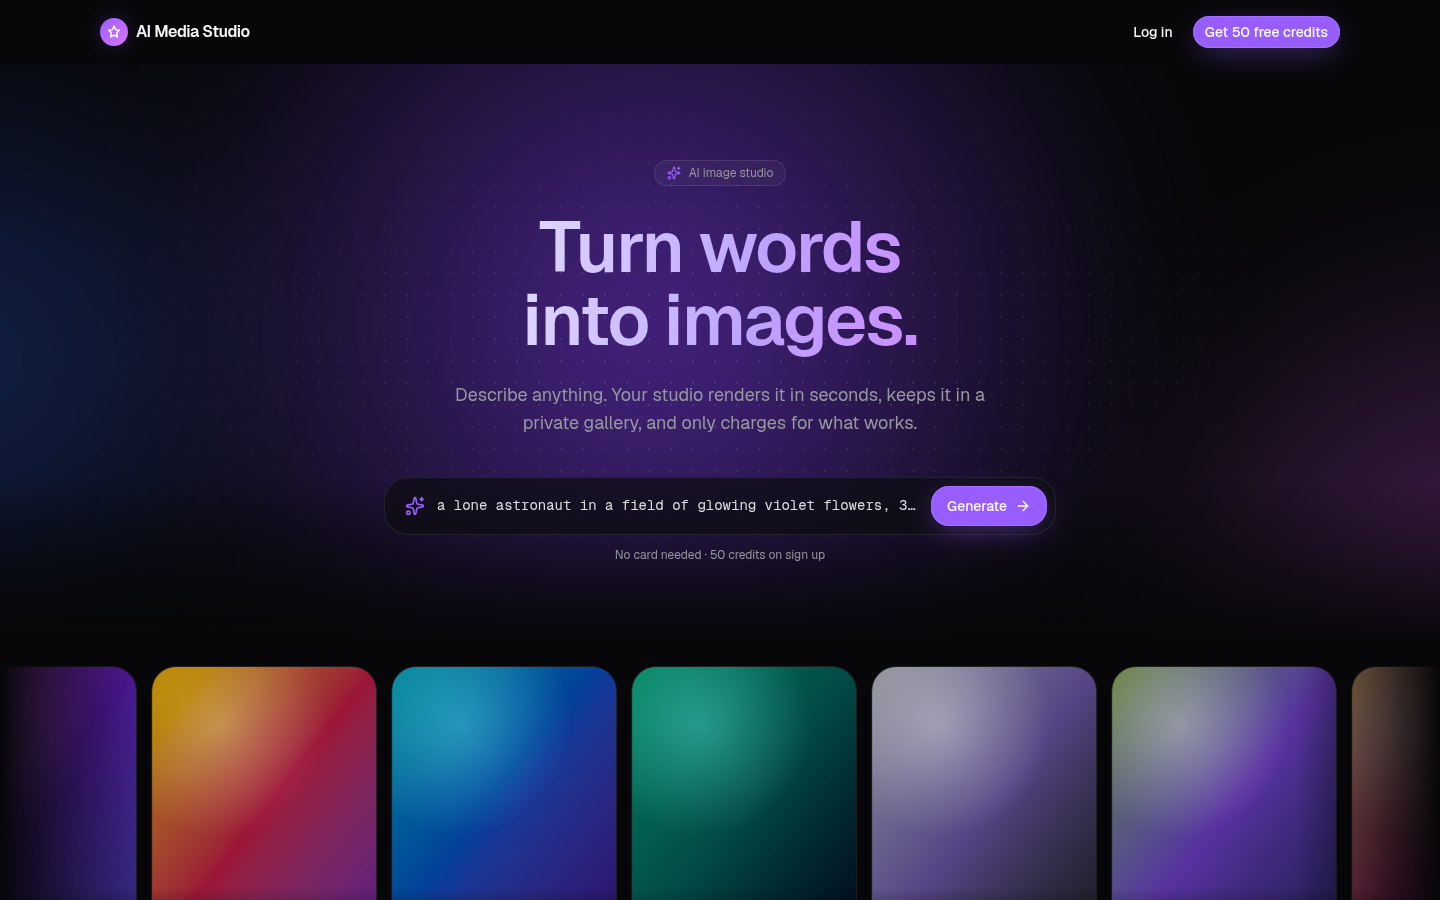
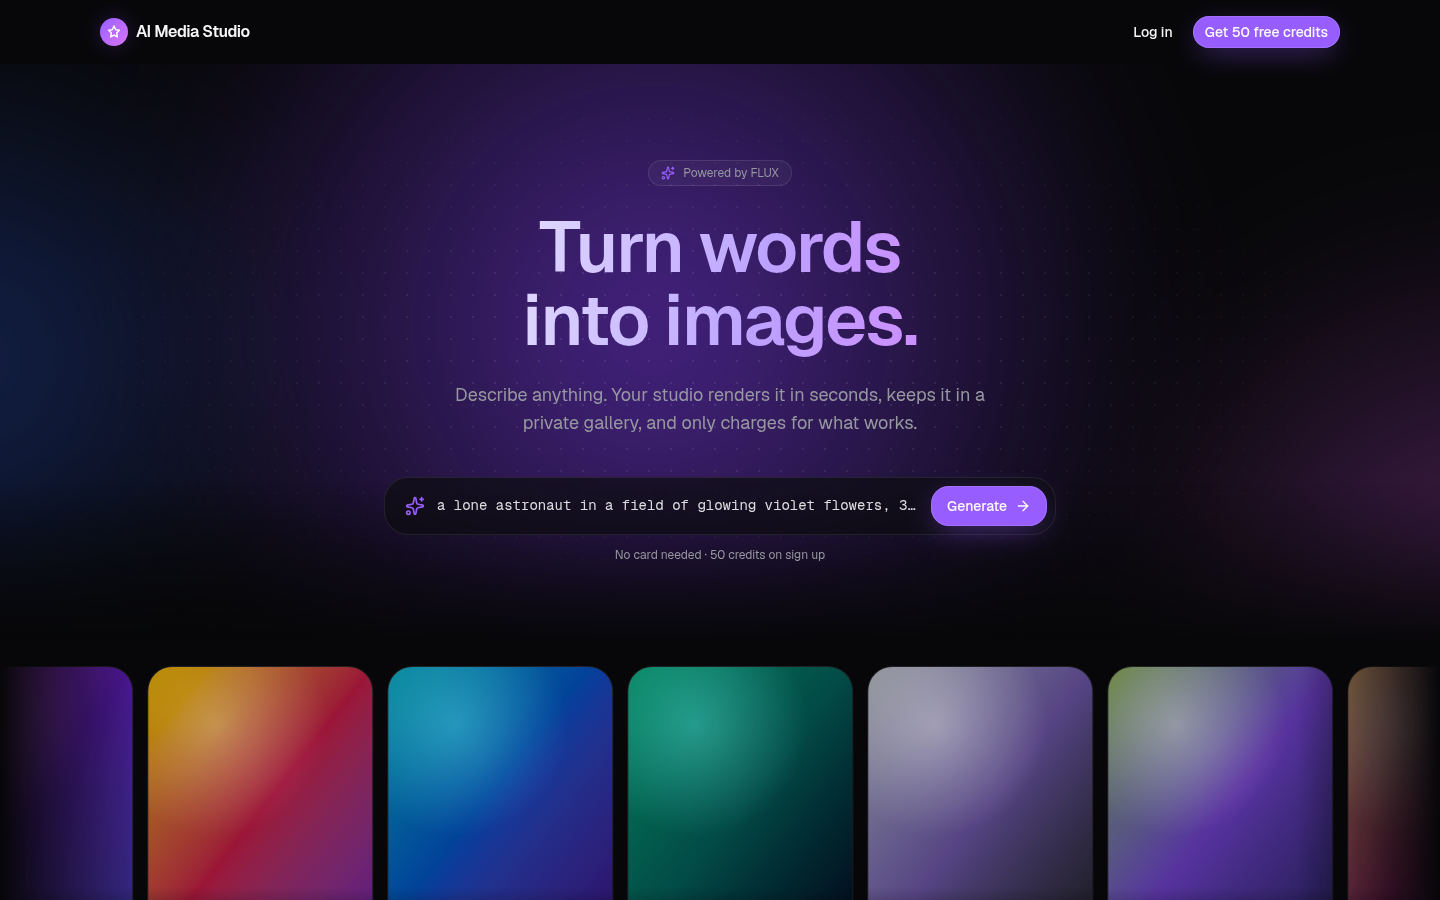
feat: verified real FLUX images via Cloudflare; safe token setup script; real screenshots
- scripts/set-cloudflare-token.sh: reads the token hidden, verifies it with
  Cloudflare before saving, writes the gitignored .env (chmod 600).
- End-to-end with the real provider: 3 jobs DONE in 2.5-6.0 s, 1024x1024 JPEG,
  ledger exact. docs/screenshots now show real output.

diff --git a/specs/07_ui_redesign_learnings.md b/specs/07_ui_redesign_learnings.md
@@ -21,6 +21,8 @@
 - Web: typecheck, lint, build; **initial JS 102 kB gzip (budget 120 kB)**: the landing page is its own lazy chunk.
 - Headless Chrome tour (desktop 1440 + mobile 390): landing, register, dashboard, generate (4 prompts incl. `[fail]`), model menu, gallery, lightbox + arrow-key nav. No page errors; **no horizontal overflow** on any mobile page. The only console error was an expected 429 (4th parallel job hit the 3-active-jobs cap) that the UI shows as a toast.
 
+**Real end-to-end with Cloudflare (2026-10-14):** direct REST call → 200 + a 1024×1024 JPEG in 3.9 s. Through the app (UI → API → BullMQ → worker → Cloudflare → S3 → presigned URL → UI): 3 prompts, all DONE in **2.5–6.0 s** each, 1024×1024 JPEGs of 0.7–0.9 MB, balance 50 → 44 and `SUM(ledger) == balance`. Recorded in a 56 s walkthrough video; `docs/screenshots` now show real FLUX output.
+
 ## Decisions & trade-offs
 1. **Why Cloudflare, not OpenRouter, for "free":** checked OpenRouter's live model list on 2026-10-13: every `:free` model is text-only, every image model is paid. Cloudflare's Workers AI free allocation (10,000 Neurons/day, no card) covers ~170 flux-1-schnell images/day at 4 steps (4.8 neurons/tile × 4 tiles + 9.6/step). Pollinations needs no key at all but adds rate limits and its own terms; Cloudflare is an account you control, with a dashboard showing usage.
 2. **Quota exhaustion is a permanent error, not a retry.** Retrying a 429 caused by an exhausted daily allocation can't succeed until 00:00 UTC; three retries would only delay the refund. The user gets "Today's free image quota is used up" + their credits back.

diff --git a/README.md b/README.md
@@ -42,7 +42,7 @@ Cloudflare gives every account **10,000 free "Neurons" per day** (≈170 images 
 1. Sign up at https://dash.cloudflare.com/sign-up (free plan).
 2. **Account ID**: dashboard → *Workers & Pages* (or *AI* → *Workers AI*) → copy "Account ID" from the right sidebar.
 3. **API token**: *My Profile* → *API Tokens* → *Create Token* → template **"Workers AI"** (permissions: Workers AI Read + Edit) → create → copy it (shown once).
-4. Put them in the root `.env` (for Docker) and/or `api/.env` (for `npm run dev`). Both files are gitignored:
+4. Easiest: `bash scripts/set-cloudflare-token.sh` (asks for the token without echoing it, verifies it with Cloudflare, writes the root `.env`). Or put them in the root `.env` (for Docker) and/or `api/.env` (for `npm run dev`) yourself. Both files are gitignored:
    ```
    AI_PROVIDER=cloudflare
    CLOUDFLARE_ACCOUNT_ID=<account id>
